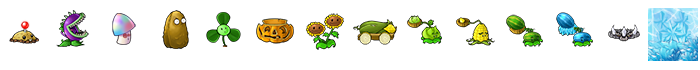
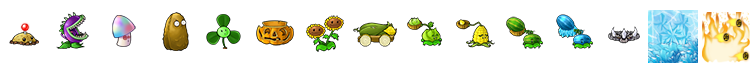
frost  star fruit and fire upgrade

diff --git a/Lawn/Plant.cpp b/Lawn/Plant.cpp
@@ -76,7 +76,7 @@ PlantDefinition gPlantDefs[SeedType::NUM_SEED_TYPES] = {
     { SeedType::SEED_SPROUT,            nullptr, ReanimationType::REANIM_ZENGARDEN_SPROUT,          33, 0,      3000,   PlantSubClass::SUBCLASS_NORMAL,     0,      _S("SPROUT") },
     { SeedType::SEED_LEFTPEATER,        nullptr, ReanimationType::REANIM_REPEATER,      5,  200,    750,    PlantSubClass::SUBCLASS_SHOOTER,    150,    _S("REPEATER") },
 
-    { SeedType::SEED_FROSTSTARFRUIT,         nullptr, ReanimationType::REANIM_STARFRUIT,     30, 125,    750,    PlantSubClass::SUBCLASS_SHOOTER,    150,    _S("STARFRUIT") },
+    { SeedType::SEED_FROSTSTARFRUIT,         nullptr, ReanimationType::REANIM_FROSTSTARFRUIT,     30, 125,    750,    PlantSubClass::SUBCLASS_SHOOTER,    150,    _S("STARFRUIT") },
 
 };
 
@@ -2581,6 +2581,10 @@ bool Plant::IsUpgradableTo(SeedType theUpgradedType)
     //{
     //    return true;
     //}
+    if (theUpgradedType == SeedType::SEED_FIREPEA && mSeedType == SeedType::SEED_PEASHOOTER)
+    {
+        return true;
+    }
     if (theUpgradedType == SeedType::SEED_SNOWPEA && mSeedType == SeedType::SEED_STARFRUIT)
     {
         return true;
@@ -4160,10 +4164,20 @@ void Plant::DrawSeedType(Graphics* g, SeedType theSeedType, SeedType theImitater
         }
         else if (aSeedType == SeedType::SEED_SNOWPEA) {
             Image* aImage = IMAGE_PACKET_PLANTS;
-            aImage->mNumCols = 14;
-            aImage->mNumTotal = 14;
+            aImage->mNumCols = 15;
+            aImage->mNumTotal = 15;
 
             TodDrawImageCelScaledF(&aSeedG, aImage, thePosX + aOffsetX, thePosY + aOffsetY, 13, 0, aSeedG.mScaleX, aSeedG.mScaleY);
+
+            //TodDrawImageScaledF(&aSeedG, aImage, thePosX + aOffsetX, thePosY + aOffsetY, aSeedG.mScaleX, aSeedG.mScaleY);
+            //gLawnApp->mReanimatorCache->DrawCachedPlant(&aSeedG, thePosX + aOffsetX, thePosY + aOffsetY, aSeedType, aDrawVariation);
+        }
+        else if (aSeedType == SeedType::SEED_FIREPEA) {
+            Image* aImage = IMAGE_PACKET_PLANTS;
+            aImage->mNumCols = 15;
+            aImage->mNumTotal = 15;
+
+            TodDrawImageCelScaledF(&aSeedG, aImage, thePosX + aOffsetX, thePosY + aOffsetY, 14, 0, aSeedG.mScaleX, aSeedG.mScaleY);
 
             //TodDrawImageScaledF(&aSeedG, aImage, thePosX + aOffsetX, thePosY + aOffsetY, aSeedG.mScaleX, aSeedG.mScaleY);
             //gLawnApp->mReanimatorCache->DrawCachedPlant(&aSeedG, thePosX + aOffsetX, thePosY + aOffsetY, aSeedType, aDrawVariation);
@@ -5125,6 +5139,7 @@ bool Plant::IsUpgrade(SeedType theSeedtype)
         theSeedtype == SeedType::SEED_GATLINGPEA || 
         theSeedtype == SeedType::SEED_WINTERMELON ||
         theSeedtype == SeedType::SEED_SNOWPEA ||
+        theSeedtype == SeedType::SEED_FIREPEA ||
         theSeedtype == SeedType::SEED_TWINSUNFLOWER || 
         theSeedtype == SeedType::SEED_SPIKEROCK || 
         theSeedtype == SeedType::SEED_COBCANNON || 

diff --git a/Sexy.TodLib/Reanimator.cpp b/Sexy.TodLib/Reanimator.cpp
@@ -72,6 +72,7 @@ ReanimationParams gLawnReanimationArray[(int)ReanimationType::NUM_REANIMS] = {
 	{ ReanimationType::REANIM_DANCER,                               "reanim\\Zombie_disco.reanim",						0 },
 	{ ReanimationType::REANIM_TANGLEKELP,                           "reanim\\Tanglekelp.reanim",                        0 },
 	{ ReanimationType::REANIM_STARFRUIT,                            "reanim\\Starfruit.reanim",                         0 },
+	{ ReanimationType::REANIM_FROSTSTARFRUIT,                       "reanim\\Froststarfruit.reanim",                    0 },
 	{ ReanimationType::REANIM_POLEVAULTER,                          "reanim\\Zombie_polevaulter.reanim",                0 },
 	{ ReanimationType::REANIM_BALLOON,                              "reanim\\Zombie_balloon.reanim",                    0 },
 	{ ReanimationType::REANIM_GARGANTUAR,                           "reanim\\Zombie_gargantuar.reanim",                 0 },

diff --git a/Lawn/SeedPacket.cpp b/Lawn/SeedPacket.cpp
@@ -186,8 +186,8 @@ void SeedPacket::Update()
 void SeedPacketDrawSeed(Graphics* g, float x, float y, SeedType theSeedType, SeedType theImitaterType, float theOffsetX, float theOffsetY, float theScale)
 {
 	Image* aImage = IMAGE_PACKET_PLANTS;
-	aImage->mNumCols = 14;
-	aImage->mNumTotal = 14;
+	aImage->mNumCols = 15;
+	aImage->mNumTotal = 15;
 
 	SeedType aSeedType = theSeedType;
 	if (theSeedType == SeedType::SEED_IMITATER && theImitaterType != SeedType::SEED_NONE)
@@ -255,6 +255,10 @@ void SeedPacketDrawSeed(Graphics* g, float x, float y, SeedType theSeedType, See
 	else if (aSeedType == SeedType::SEED_SNOWPEA && g->mScaleX <= 1.0f)
 	{
 		TodDrawImageCelScaledF(g, aImage, x, y, 13, 0, g->mScaleX, g->mScaleY);
+	}
+	else if (aSeedType == SeedType::SEED_FIREPEA && g->mScaleX <= 1.0f)
+	{
+		TodDrawImageCelScaledF(g, aImage, x, y, 14, 0, g->mScaleX, g->mScaleY);
 	}
 	else
 	{

diff --git a/ConstEnums.h b/ConstEnums.h
@@ -884,6 +884,7 @@ enum ReanimationType
     REANIM_DANCER,
     REANIM_TANGLEKELP,
     REANIM_STARFRUIT,
+    REANIM_FROSTSTARFRUIT,
     REANIM_POLEVAULTER,
     REANIM_BALLOON,
     REANIM_GARGANTUAR,
